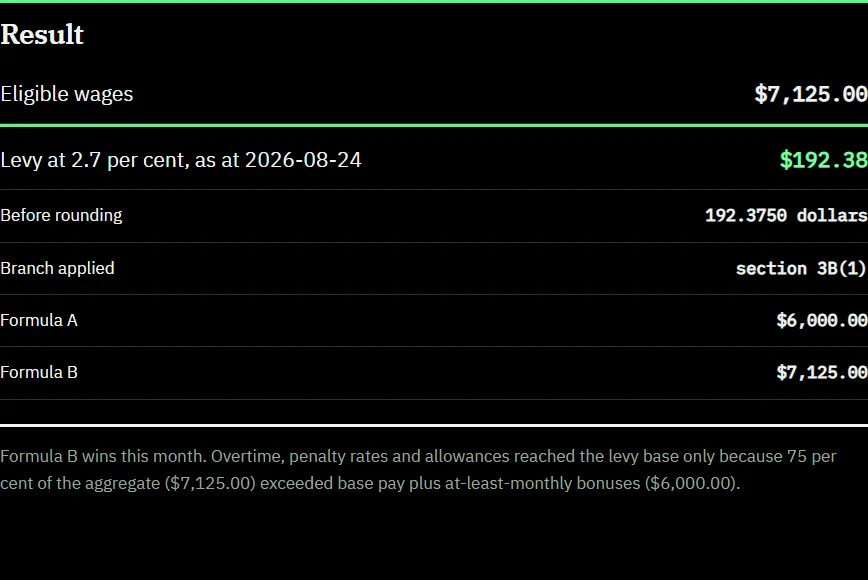
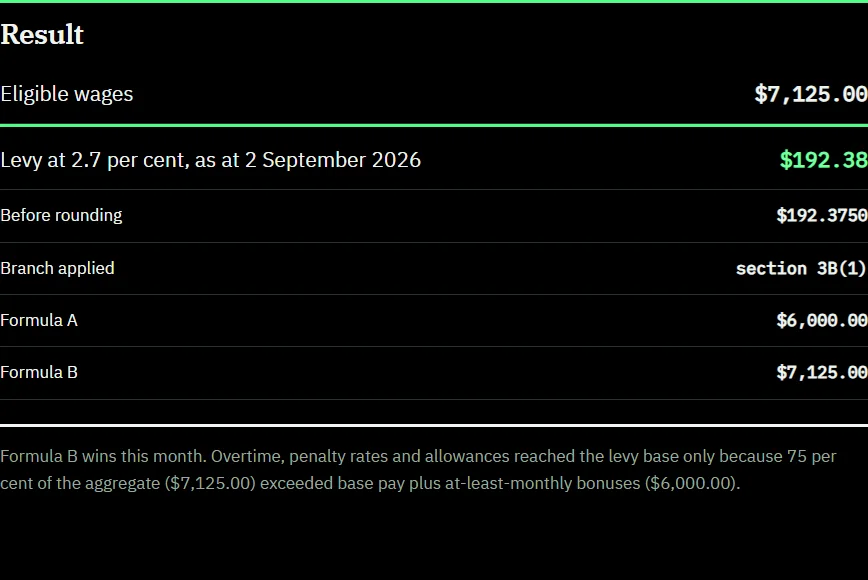
Fix the 404 navigation clip and nine interface review findings (#85)
The 6 September better-interface review found one HIGH and nine MEDIUM
findings. This applies all ten.

- 404 page: drop .page-404 from the .container rule so the shell gutter
  is not applied twice; the primary navigation no longer overflows at 320.
- Article headers: cap the byline and intro paragraphs at the reading
  width instead of the 1360px shell.
- Homepage routes: the route word becomes p.route-label and the statement
  becomes the section h2, with the install band heading an h3, so heading
  sizes descend with level. The authority contract, design check and its
  mutation test follow the new markup.
- Tools register: the optional note sits under the description and the
  facts list is pinned to column 3, so the Coal LSL entry keeps the
  column rhythm of the other entries.
- Calculator result: the rate date reads as a long date and the unrounded
  levy as a four-decimal currency figure, matching the rest of the page
  and the homepage worked proof. Proof image recaptured.
- Homepage note says section 3B(1) rather than s 3B(1).
- Bonus rows carry visible labels instead of a placeholder and aria-label.
- Homepage live region moves from the whole result list to the levy row.
- Rail labels and comparison cells render in ink; reference and rounding
  notes take the neutral rule, the alert rule stays on disclaimer,
  boundary and refusal blocks.

Verification: check_site.py passes apart from two pre-existing external
[…]

Changed region(s): [[0.8088, 0.3414, 1.0, 0.4034], [0.28, 0.2483, 0.4977, 0.3103]]

diff --git a/assets/site.css b/assets/site.css
@@ -367,6 +367,10 @@ button:active {
   font-size: var(--text-heading);
 }
 
+.article-header > p {
+  max-width: var(--reading-width);
+}
+
 .article-layout {
   display: grid;
   grid-template-columns: minmax(10rem, 14rem) minmax(0, 1fr);
@@ -475,17 +479,20 @@ button:active {
   margin-top: var(--space-5);
 }
 
-blockquote {
+/* Reference and rounding notes are information, so they take the neutral
+   rule. The alert rule is kept for the blocks that sit under an explicit
+   Disclaimer, Boundary or refusal heading. */
+blockquote,
+.rounding-note {
   max-width: var(--reading-width);
   padding: var(--space-4) 0 var(--space-4) var(--space-5);
-  border-left: var(--rule-strong) solid var(--colour-alert);
+  border-left: var(--rule-strong) solid var(--colour-rule-strong);
   color: var(--colour-ink-soft);
 }
 
 .boundary,
 .disclaimer,
-.unresolved,
-.rounding-note {
+.unresolved {
   padding: var(--space-4) 0 var(--space-4) var(--space-5);
   border-left: var(--rule-strong) solid var(--colour-alert);
   color: var(--colour-ink-soft);
@@ -496,6 +503,7 @@ blockquote {
   border-left: var(--rule-strong) solid var(--colour-rule-strong);
   color: var(--colour-ink-soft);
   margin-top: var(--space-5);
+  max-width: var(--reading-width);
   font-size: var(--text-small);
 }
 
@@ -768,12 +776,21 @@ th {
   margin: 0;
 }
 
+/* The optional note sits under the description so the facts column keeps
+   its place in every entry; the dl is pinned so auto-placement cannot drop
+   it below the note. */
 .collection-entry__note {
+  grid-column: 2;
   color: var(--colour-ink);
   font-family: var(--font-mono);
   font-size: var(--text-caption);
   letter-spacing: var(--tracking-label);
   text-transform: uppercase;
+}
+
+.collection-entry > dl {
+  grid-column: 3;
+  grid-row: 1;
 }
 
 .work-chooser {
@@ -902,6 +919,7 @@ th {
 }
 
 :target > h2,
+:target > .route-label,
 :target > .section-title,
 :target > header h2 {
   color: var(--colour-stamp);
@@ -1106,7 +1124,7 @@ th {
 .home-proof-rail strong {
   display: block;
   margin-bottom: var(--space-1);
-  color: var(--colour-stamp-strong);
+  color: var(--colour-ink);
 }
 
 .trust-band {
@@ -1148,12 +1166,18 @@ th {
   border-top: var(--rule-thin) solid var(--colour-rule-strong);
 }
 
-.route-section > h2 {
+/* The route word is a label for the column, not the section heading; the
+   statement in the content column is the h2 so the outline descends. */
+.route-section > .route-label {
   color: var(--colour-ink);
+  font-family: var(--font-display);
   font-size: var(--text-heading-small);
+  font-weight: 600;
+  line-height: var(--leading-heading);
+  letter-spacing: var(--tracking-heading);
 }
 
-.route-section > :not(h2) {
+.route-section > :not(.route-label) {
   grid-column: 2;
 }
 
@@ -1222,7 +1246,7 @@ th {
   border-top: 0;
 }
 
-.install-band h4,
+.install-band h3,
 .proof-feature h3 {
   font-family: var(--font-display);
   font-size: var(--text-heading-small);
@@ -1618,6 +1642,18 @@ input[type="checkbox"] {
   margin-top: 0;
 }
 
+/* A wrapping label so each row keeps a visible field name without ids;
+   the control inherits the label's font, so the weight is reset here. */
+.bonus-field {
+  display: grid;
+  gap: var(--space-2);
+  font-weight: 400;
+}
+
+.bonus-field > span {
+  font-weight: 600;
+}
+
 .bonus-row .field-note {
   grid-column: 1 / -1;
 }
@@ -1781,14 +1817,13 @@ input[type="checkbox"] {
 }
 
 .comparison-value {
-  color: var(--colour-stamp-strong);
+  color: var(--colour-ink);
   font-size: var(--text-heading-small);
 }
 
 /* Utility and error pages */
 
-.container,
-.page-404 {
+.container {
   width: min(100% - (2 * var(--gutter)), 56rem);
   margin-inline: auto;
   padding-block: var(--space-9);
@@ -1879,6 +1914,7 @@ input[type="checkbox"] {
   .collection-entry dl,
   .collection-entry__links {
     grid-column: 2;
+    grid-row: auto;
   }
 
   .calculator-workspace {
@@ -1915,11 +1951,11 @@ input[type="checkbox"] {
     gap: var(--space-5);
   }
 
-  .route-section > :not(h2) {
+  .route-section > :not(.route-label) {
     grid-column: 1;
   }
 
-  .route-section > h2 {
+  .route-section > .route-label {
     white-space: normal;
   }
 
@@ -2013,6 +2049,7 @@ input[type="checkbox"] {
   }
 
   .collection-entry dl,
+  .collection-entry__note,
   .collection-entry__links {
     grid-column: 1;
   }

diff --git a/index.html b/index.html
@@ -122,14 +122,14 @@
               <div class="field"><label for="calc-allowances">Allowances</label><input id="calc-allowances" name="allowances" type="number" min="0" step="0.01" inputmode="decimal" value="500" required disabled aria-describedby="proof-calc-title" /></div>
             </div>
             <p id="home-levy-error" class="field-error" role="alert" hidden>Enter an amount of $0.00 or more in each field, with no more than two decimal places.</p>
-            <dl class="proof-calc__result" aria-live="polite">
+            <dl class="proof-calc__result">
               <div data-row="A"><dt>Formula A, base rate plus bonuses</dt><dd data-out="formulaA">$6,000.00</dd></div>
               <div data-row="B" class="is-applied"><dt>Formula B, 75 per cent of every component</dt><dd data-out="formulaB">$7,125.00</dd></div>
               <div><dt>Eligible wages, the greater of the two</dt><dd data-out="eligible">$7,125.00</dd></div>
               <div><dt>Levy at 2.7 per cent, before rounding</dt><dd data-out="exact">$192.3750</dd></div>
-              <div><dt>Levy payable, rounded once at the end</dt><dd data-out="levy">$192.38</dd></div>
+              <div aria-live="polite" aria-atomic="true"><dt>Levy payable, rounded once at the end</dt><dd data-out="levy">$192.38</dd></div>
             </dl>
-            <p class="proof-calc__note">Fabricated figures, calculated in your browser; nothing is sent or stored. This is the s 3B(1) base rate branch without bonuses, so use the <a href="/tools/coal-lsl-levy/">full calculator</a> for annual salary, casual and bonus frequency.</p>
+            <p class="proof-calc__note">Fabricated figures, calculated in your browser; nothing is sent or stored. This is the section 3B(1) base rate branch without bonuses, so use the <a href="/tools/coal-lsl-levy/">full calculator</a> for annual salary, casual and bonus frequency.</p>
           </form>
           <div class="proof-feature__links">
             <a class="button button--secondary" href="/tools/coal-lsl-levy/">Open the calculator</a>
@@ -150,13 +150,13 @@
 
     <div class="authority-routes site-shell">
       <section id="adopt" class="route-section" aria-labelledby="adopt-title">
-        <h2 id="adopt-title">Adopt</h2>
+        <p class="route-label">Adopt</p>
         <div class="route-content">
-          <h3 class="route-statement">Test it with fabricated data first.</h3>
+          <h2 id="adopt-title" class="route-statement">Test it with fabricated data first.</h2>
           <p>Use the public sample files, all fabricated data, to see what a tool accepts, refuses and explains before it enters a firm workflow.</p>
           <div class="route-actions">
             <div class="install-band">
-              <h4>Five ways to try it</h4>
+              <h3>Five ways to try it</h3>
               <p>An MCP server is a standard way to hand an AI assistant a fixed set of vetted tools. github-agent-skills gives Codex and Claude Code the GitHub maintenance workflows this portfolio uses, and keeps the fabricated-data and human-review boundaries. These commands are for firms already running Claude Code or Codex; if yours is not, start with the <a href="/tools/coal-lsl-levy/">browser calculator</a> or send the evaluation links below to whoever manages your systems.</p>
               <div class="adopt-chooser" role="group" aria-label="Adoption routes">
                 <input class="adopt-input" type="radio" name="adopt-route" id="adopt-none" checked="checked" />
@@ -221,9 +221,9 @@
       </section>
 
       <section id="verify" class="route-section" aria-labelledby="verify-title">
-        <h2 id="verify-title">Verify</h2>
+        <p class="route-label">Verify</p>
         <div class="route-content">
-          <h3 class="route-statement">Check the source before the result.</h3>
+          <h2 id="verify-title" class="route-statement">Check the source before the result.</h2>
           <p>Credentials establish a limited identity claim. Releases establish what shipped. Evaluations show whether declared inputs reproduce the expected refusal or result.</p>
           <dl class="credential-register" aria-label="Public credentials and boundaries">
             <div>

diff --git a/tools/coal-lsl-levy/index.html b/tools/coal-lsl-levy/index.html
@@ -342,15 +342,15 @@
 
     <template id="bonus-row-template">
       <div class="bonus-row">
-        <input type="number" step="0.01" min="0" inputmode="decimal" class="bonus-amount" placeholder="Amount" aria-label="Bonus amount" aria-describedby="money-blank-help" data-help-template="bonus-amount" />
-        <select class="bonus-frequency" aria-label="Bonus frequency">
+        <label class="bonus-field"><span>Bonus amount</span><input type="number" step="0.01" min="0" inputmode="decimal" class="bonus-amount" aria-describedby="money-blank-help" data-help-template="bonus-amount" /></label>
+        <label class="bonus-field"><span>Bonus frequency</span><select class="bonus-frequency">
           <option value="weekly">Weekly</option>
           <option value="fortnightly">Fortnightly</option>
           <option value="monthly">Monthly</option>
           <option value="quarterly">Quarterly</option>
           <option value="halfYearly">Half-yearly</option>
           <option value="annually">Annually</option>
-        </select>
+        </select></label>
         <button type="button" class="bonus-remove">Remove</button>
         <p class="field-note" data-help-template="bonus-amount-note">Enter the bonus amount paid at the selected frequency.</p>
       </div>

diff --git a/scripts/site_contracts.py b/scripts/site_contracts.py
@@ -1721,14 +1721,23 @@ def check_authority_section(
         failures.append(
             f"index.html: authority section #{identifier} must have exactly one h2"
         )
-    elif core.visible_text(h2s[0]) != label:
+
+    # The route word is a label beside the content column; the statement is
+    # the section's h2 so the heading outline descends in size.
+    label_matches = re.findall(
+        r'<p\b(?=[^>]*\bclass\s*=\s*["\'][^"\']*\broute-label\b[^"\']*["\'])'
+        r"[^>]*>(.*?)</p\s*>",
+        rendered,
+        re.S | re.I,
+    )
+    if len(label_matches) != 1 or core.visible_text(label_matches[0]) != label:
         failures.append(
-            f"index.html: authority section #{identifier} heading must be {label}"
+            f"index.html: authority section #{identifier} label must be {label}"
         )
 
     statement_matches = re.findall(
-        r'<h3\b(?=[^>]*\bclass\s*=\s*["\'][^"\']*\broute-statement\b[^"\']*["\'])'
-        r"[^>]*>(.*?)</h3\s*>",
+        r'<h2\b(?=[^>]*\bclass\s*=\s*["\'][^"\']*\broute-statement\b[^"\']*["\'])'
+        r"[^>]*>(.*?)</h2\s*>",
         rendered,
         re.S | re.I,
     )
@@ -1772,14 +1781,6 @@ def check_authority_surface(root: Path = core.ROOT) -> list[str]:
         if not sections[identifier]:
             failures.append(f"index.html: missing visible authority section #{identifier}")
 
-        section_heading = re.search(
-            r"<h[1-6]\b[^>]*>(.*?)</h[1-6]\s*>", sections[identifier], re.S | re.I
-        )
-        heading_label = core.visible_text(section_heading.group(1)) if section_heading else ""
-        if heading_label != label:
-            failures.append(
-                f"index.html: authority section #{identifier} heading must be {label}"
-            )
         failures.extend(
             check_authority_section(
                 sections[identifier],

diff --git a/scripts/check_design.py b/scripts/check_design.py
@@ -597,7 +597,7 @@ def check_stylesheets(root: Path, baseline: dict[str, object]) -> list[str]:
         failures.append("route sections must not use viewport-based minimum heights")
 
     route_label_rules = re.findall(
-        r"\.route-section\s*>\s*h2\s*\{(.*?)\}", site_css, re.S | re.I
+        r"\.route-section\s*>\s*\.route-label\s*\{(.*?)\}", site_css, re.S | re.I
     )
     if any(
         re.search(r"\bposition\s*:\s*sticky\s*;", rule, re.I)

diff --git a/scripts/test_contracts.py b/scripts/test_contracts.py
@@ -697,7 +697,7 @@ def test_design_contracts() -> int:
         append_file(
             root,
             "assets/site.css",
-            "\n.route-section > h2 { position: sticky; }\n",
+            "\n.route-section > .route-label { position: sticky; }\n",
         )
         expect_failure(
             "sticky route rail restored",
